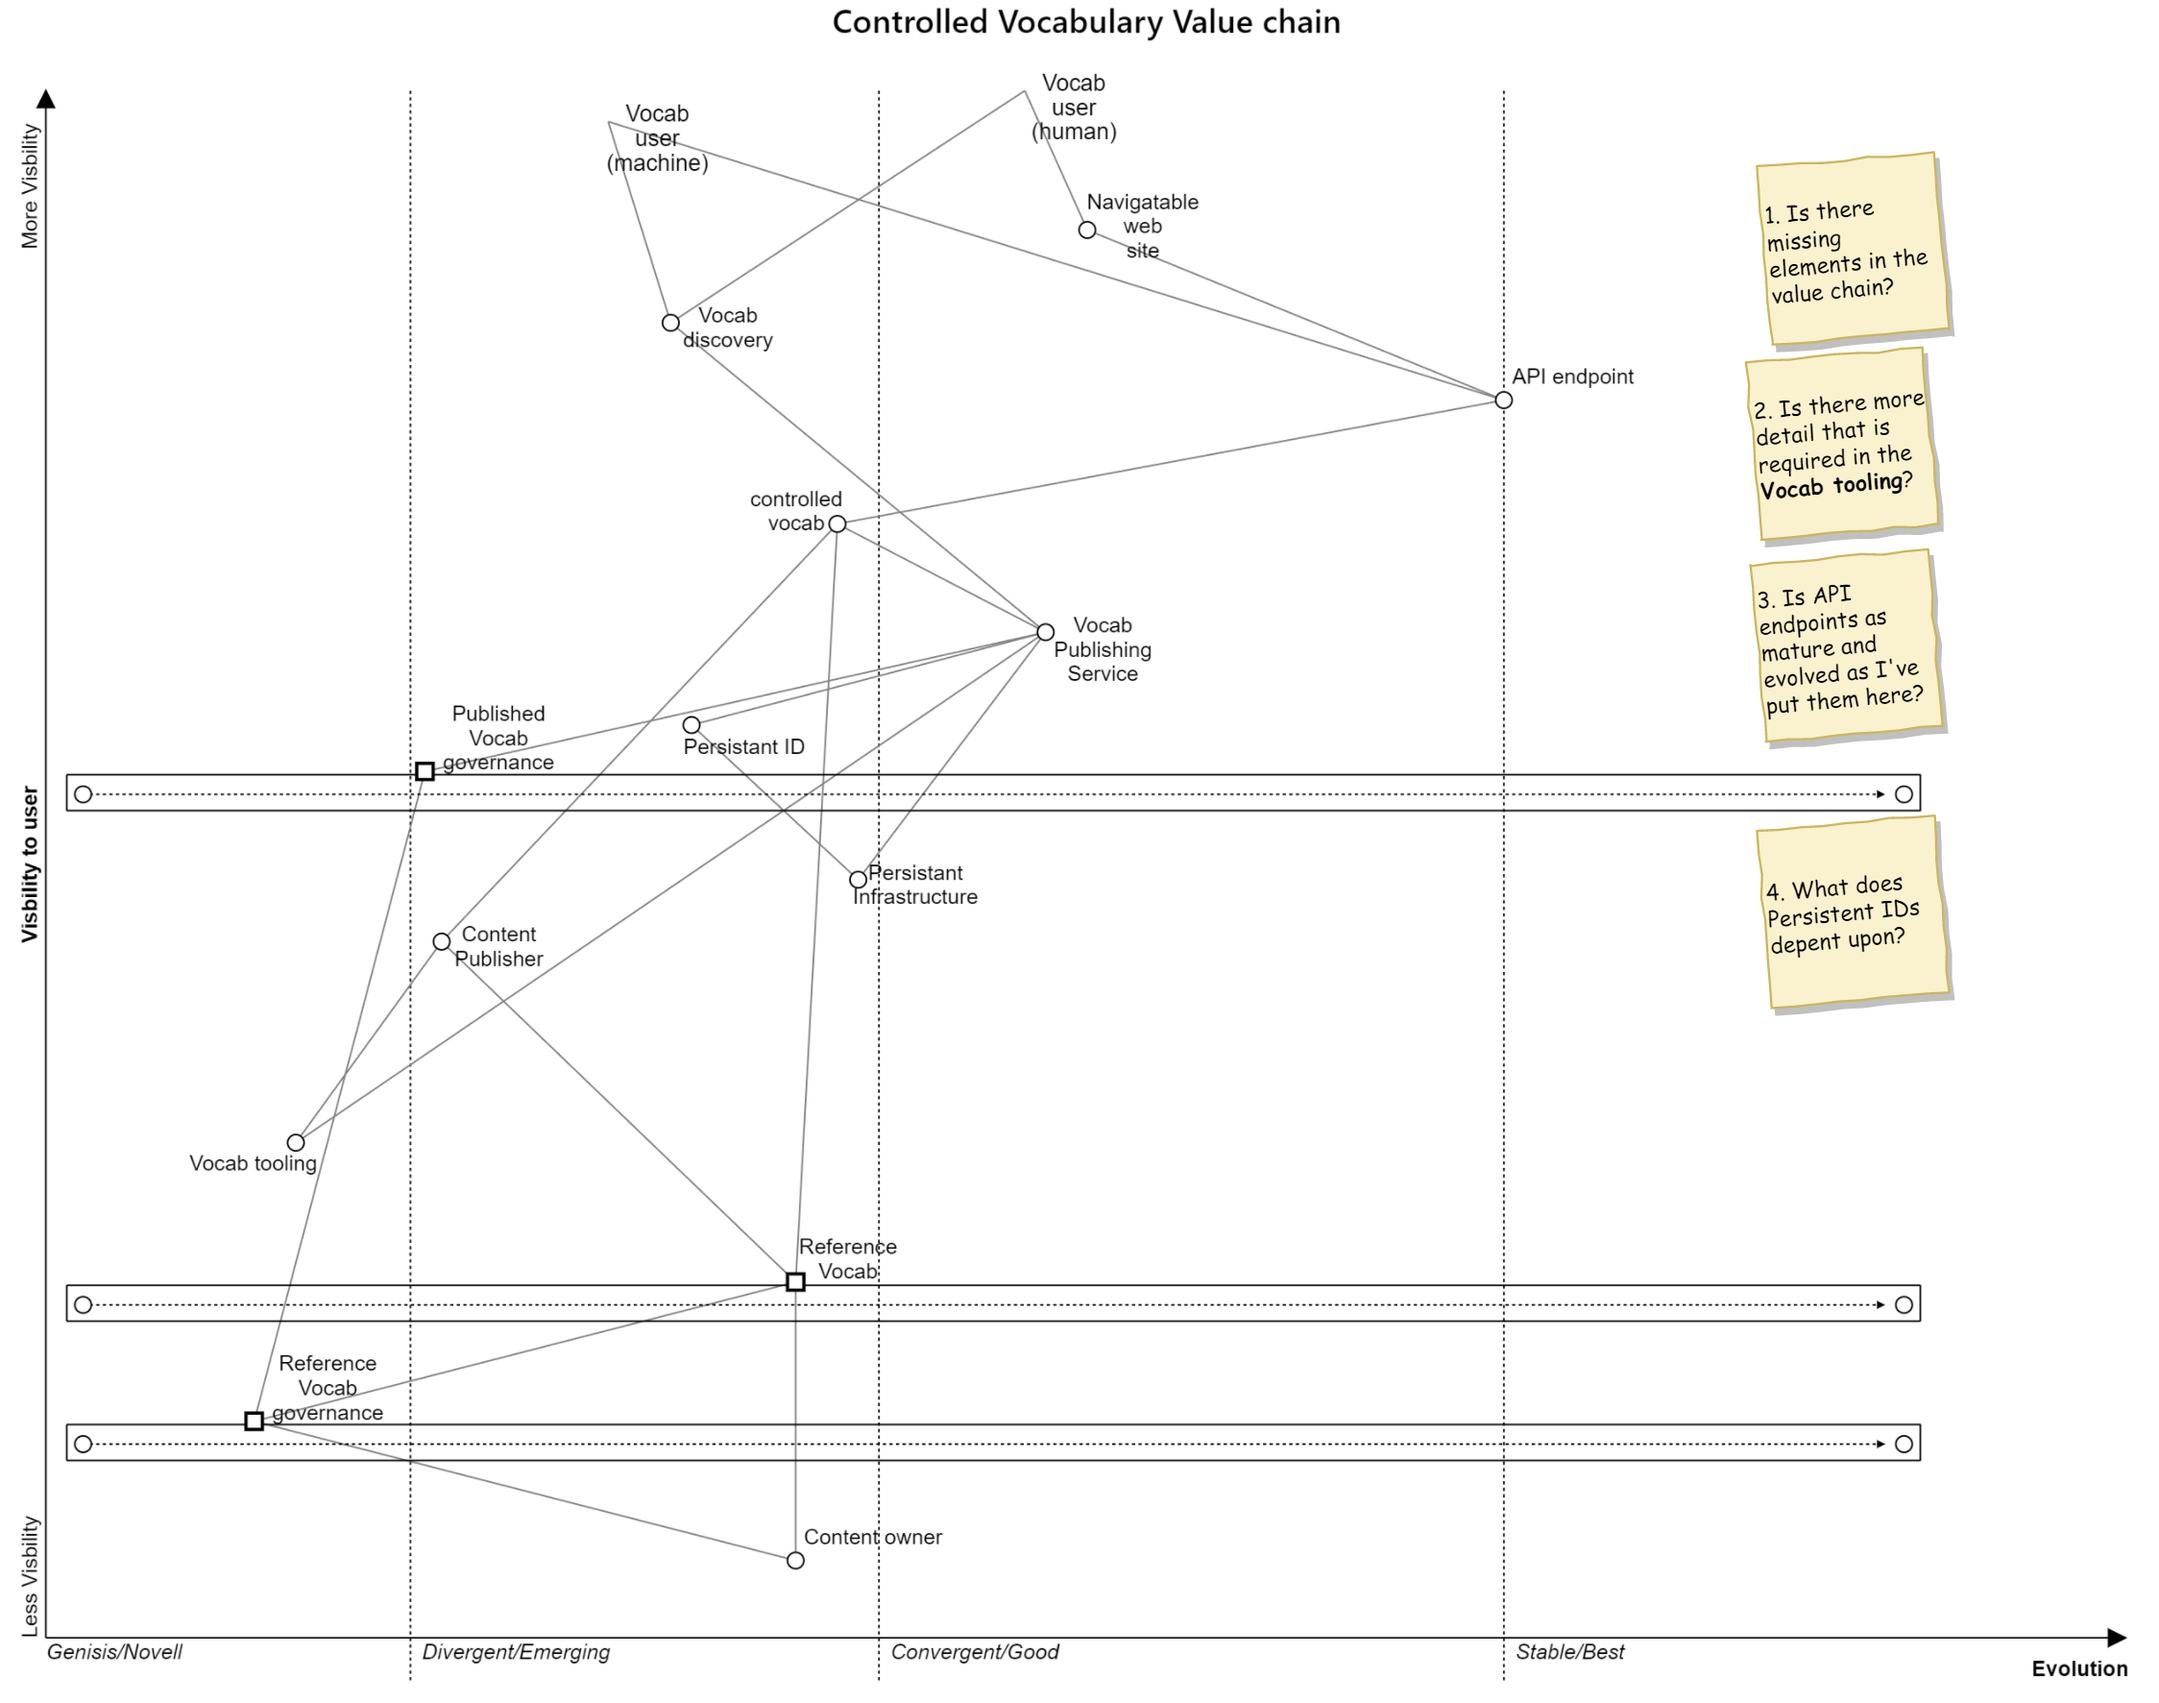
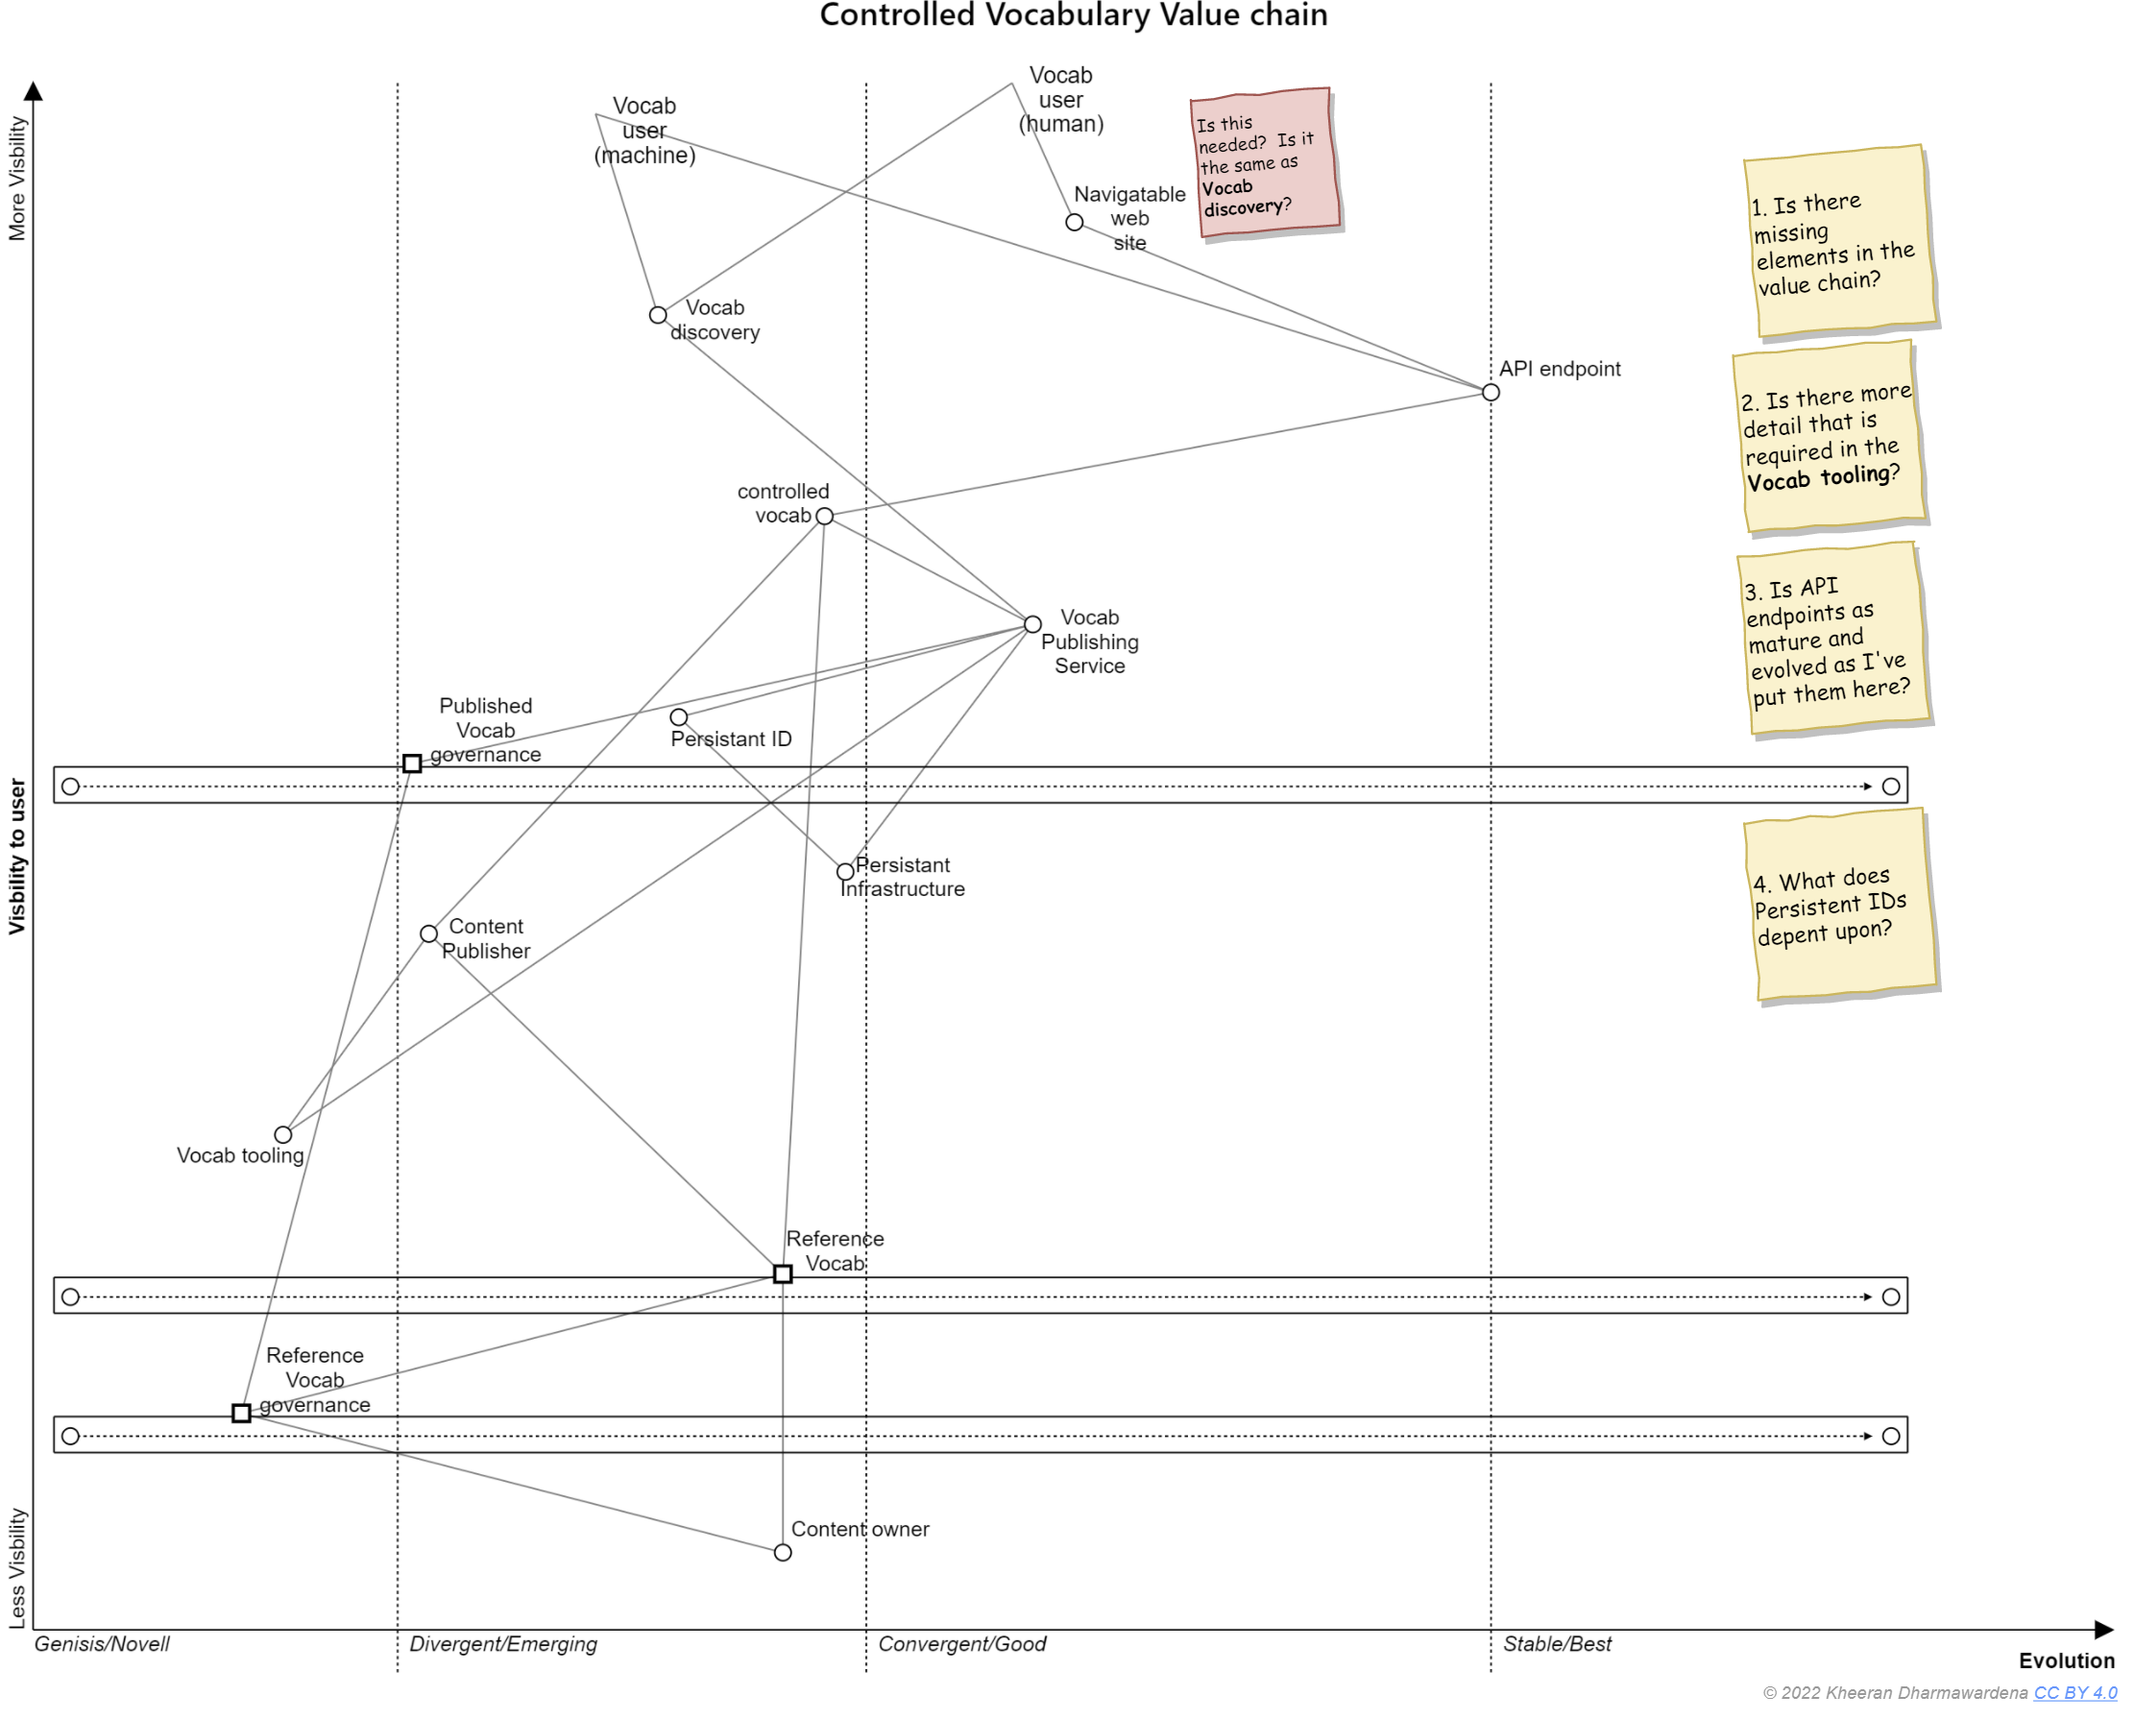
Tweaks and adding license.

diff --git a/README.md b/README.md
@@ -12,3 +12,5 @@ I use a combination of OnlineWardleyMaps and Draw.io to create and explore these
 * [Hydrogren Fuel](./Hydrogen%20fuel/README.md)
 * [International Collaboration](./International%20Collaboration/README.md)
 * [Cytrax for small businesses](./Cytrax%20for%20small%20businesses/README.md)
+
+All work here is licensed under [CC BY 4.0](https://creativecommons.org/licenses/by/4.0/) unless otherwise stated.

diff --git a/Controlled Vocabularies/README.md b/Controlled Vocabularies/README.md
@@ -25,3 +25,6 @@ This map looks the overall landscape of controlled vocabularies.
 This maps the value chain from the perspective of a user of the controlled vocabulary.
 
 <img src="./maps/Controlled Vocabulary Value chain.png" width="100%">
+
+
+© 2022 Kheeran Dharmawardena [CC BY 4.0](https://creativecommons.org/licenses/by/4.0/)

diff --git a/Controlled Vocabularies/Explorations/README.md b/Controlled Vocabularies/Explorations/README.md
@@ -5,3 +5,5 @@
 Looking at what insights the user value chain can provide.
 
 <img src="./[Explore] Controlled Vocabulary User value chain.png" width="100%">
+
+© 2022 Kheeran Dharmawardena [CC BY 4.0](https://creativecommons.org/licenses/by/4.0/)
